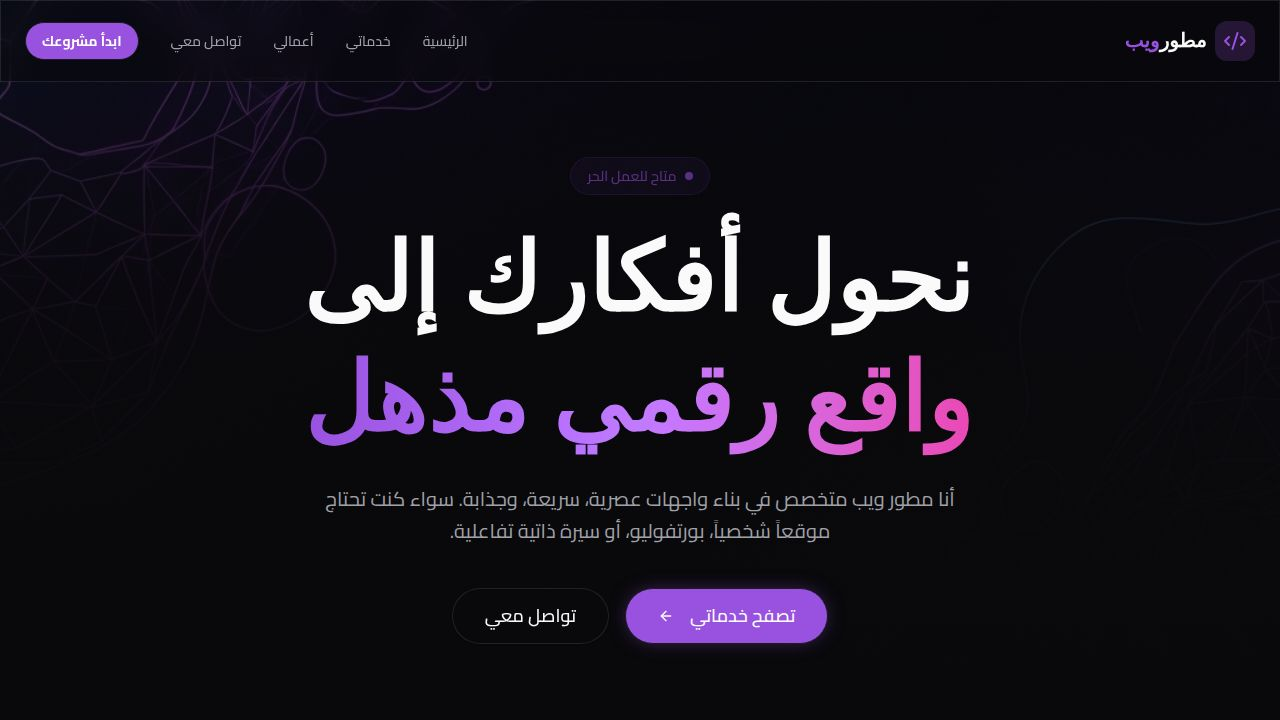
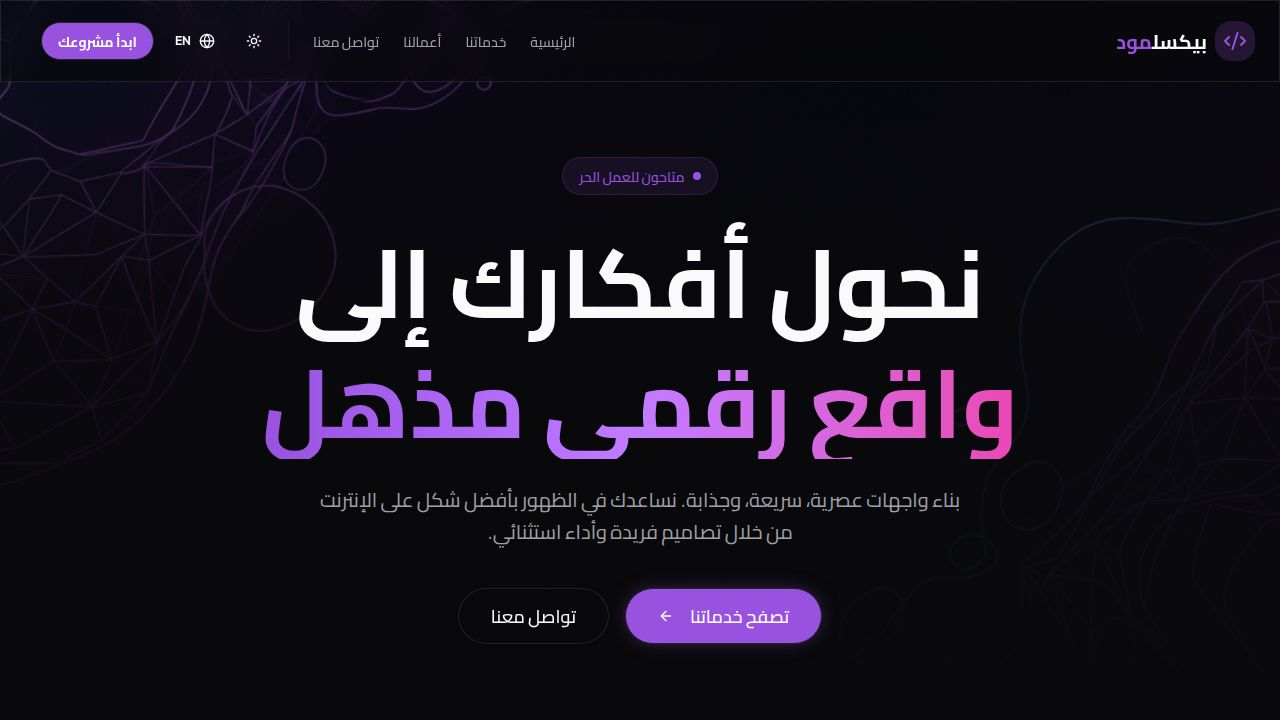
Update website branding and content to reflect the new team name
Update meta tags, logo text, and website content to use "Pixel Mode" instead of previous branding. Add "Plus Jakarta Sans" font for improved English text display and adjust CV description to plural.

Replit-Commit-Author: Agent
Replit-Commit-Session-Id: f7bae07b-cb4b-48b5-af1f-15cb2f69826c
Replit-Commit-Checkpoint-Type: full_checkpoint
Replit-Commit-Event-Id: 04e5db46-d0f5-4de2-9a40-442b7deadbf4
Replit-Commit-Screenshot-Url: https://storage.googleapis.com/screenshot-production-us-central1/d2e6b768-799e-4e33-9bec-5d505b11154b/f7bae07b-cb4b-48b5-af1f-15cb2f69826c/6ylZOui
Replit-Helium-Checkpoint-Created: true

diff --git a/client/index.html b/client/index.html
@@ -4,20 +4,20 @@
     <meta charset="UTF-8" />
     <meta name="viewport" content="width=device-width, initial-scale=1.0, maximum-scale=1" />
 
-    <meta property="og:title" content="المطور المحترف - خدمات ويب متكاملة" />
-    <meta property="og:description" content="نصمم مواقع إلكترونية، بورتفوليو، وسير ذاتية احترافية تناسب احتياجاتك." />
+    <meta property="og:title" content="بيكسل مود - حلول الويب الاحترافية" />
+    <meta property="og:description" content="نحول أفكارك إلى واقع رقمي مذهل. بيكسل مود هو فريقك المتخصص في بناء المواقع العصرية." />
     <meta property="og:type" content="website" />
     <meta property="og:image" content="https://replit.com/public/images/opengraph.png" />
     <meta name="twitter:card" content="summary_large_image" />
     <meta name="twitter:site" content="@replit" />
-    <meta name="twitter:title" content="المطور المحترف - خدمات ويب متكاملة" />
-    <meta name="twitter:description" content="نصمم مواقع إلكترونية، بورتفوليو، وسير ذاتية احترافية تناسب احتياجاتك." />
+    <meta name="twitter:title" content="بيكسل مود - حلول الويب الاحترافية" />
+    <meta name="twitter:description" content="نحول أفكارك إلى واقع رقمي مذهل. بيكسل مود هو فريقك المتخصص في بناء المواقع العصرية." />
     <meta name="twitter:image" content="https://replit.com/public/images/opengraph.png" />
 
     <link rel="icon" type="image/png" href="/favicon.png" />
     <link rel="preconnect" href="https://fonts.googleapis.com">
     <link rel="preconnect" href="https://fonts.gstatic.com" crossorigin>
-    <link href="https://fonts.googleapis.com/css2?family=Cairo:wght@200..1000&family=Syne:wght@400..800&display=swap" rel="stylesheet">
+    <link href="https://fonts.googleapis.com/css2?family=Cairo:wght@200..1000&family=Plus+Jakarta+Sans:wght@200..800&family=Syne:wght@400..800&display=swap" rel="stylesheet">
   </head>
   <body>
     <div id="root"></div>

diff --git a/client/src/lib/LanguageContext.tsx b/client/src/lib/LanguageContext.tsx
@@ -28,7 +28,7 @@ const translations = {
     "services.portfolio.title": "معرض الأعمال (Portfolio)",
     "services.portfolio.desc": "مساحة خاصة لاستعراض مشاريعك وإنجازاتك بطريقة احترافية تجذب العملاء وأصحاب العمل.",
     "services.cv.title": "سيرة ذاتية تفاعلية (CV)",
-    "services.cv.desc": "سيرة ذاتية رقمية تفاعلية تميزك عن الآخرين وتبرز مهاراتك بشكل عصري وجذاب.",
+    "services.cv.desc": "سيرة ذاتية رقمية تفاعلية تميزكم عن الآخرين وتبرز مهاراتكم بشكل عصري وجذاب.",
     "why.title": "لماذا تختاروننا؟",
     "why.item1": "تصاميم عصرية وجذابة تلفت الانتباه",
     "why.item2": "أكواد نظيفة وسريعة الأداء",
@@ -43,8 +43,8 @@ const translations = {
     "contact.message": "الرسالة",
     "contact.send": "إرسال الرسالة",
     "footer.rights": "جميع الحقوق محفوظة. صمم بكل ❤",
-    "logo.dev": "فريق",
-    "logo.web": "تيك"
+    "logo.dev": "بيكسل",
+    "logo.web": "مود"
   },
   en: {
     "nav.home": "Home",
@@ -80,8 +80,8 @@ const translations = {
     "contact.message": "Message",
     "contact.send": "Send Message",
     "footer.rights": "All rights reserved. Crafted with ❤",
-    "logo.dev": "Tech",
-    "logo.web": "Team"
+    "logo.dev": "Pixel",
+    "logo.web": "Mode"
   }
 };
 
